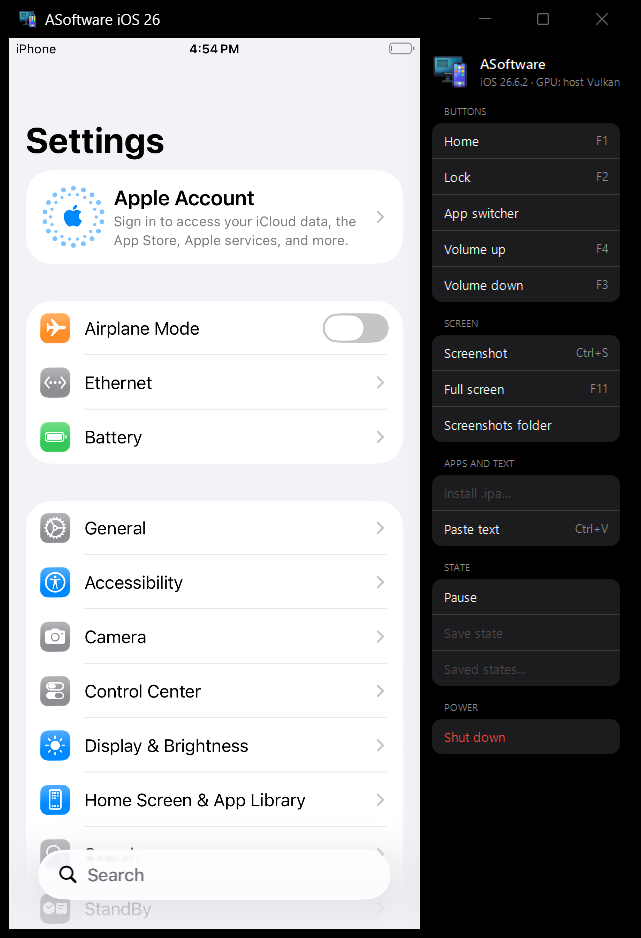
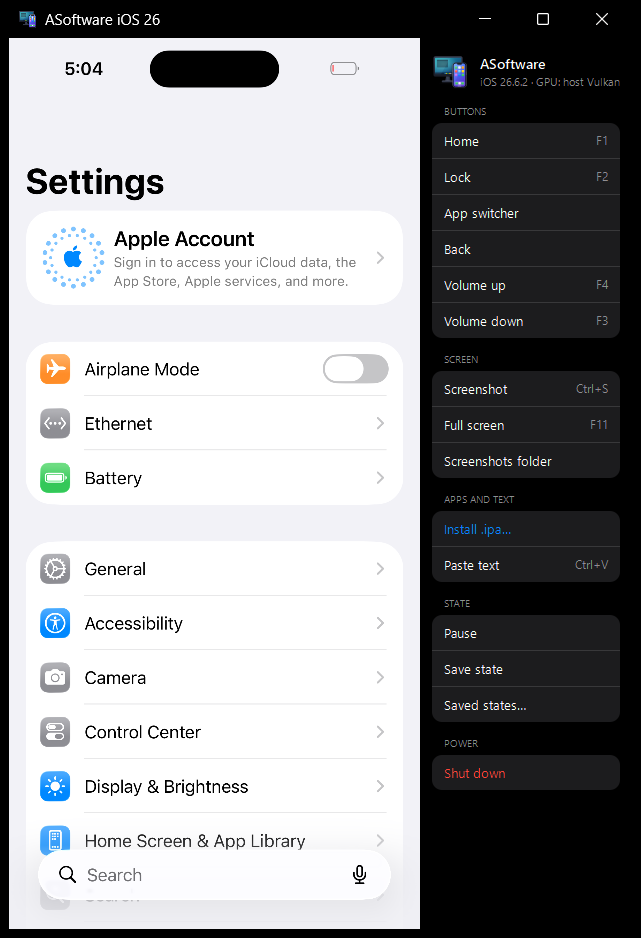
ios26: quick boot in the launcher; new pictures of the window
Closing the window on a disk that keeps its changes saves the machine, and
the next start resumes it in seconds, as the iOS 16 launcher does: its own
state snapshot, dropped by -NoQuickBoot, by [B] in the menu and by an .ipa
install, and when QEMU cannot resume it, which then boots iOS.  Under -Persist
an .ipa now goes into the user overlay itself, with its own trust cache: an
existing overlay never saw the apps overlay made under it.

The README's pictures are all new and of the whole window, the chart in two
panels with its numbers measured again in the GIF's run; gpu-chart.py draws it.

diff --git a/ios26/scripts/gpu-chart.py b/ios26/scripts/gpu-chart.py
@@ -1,0 +1,97 @@
+#!/usr/bin/env python3
+"""The README's chart of the QEMU process's GPU use, from gpu-sample.ps1's rows: its 3D engine on
+each GPU and its dedicated memory, in two panels over one time axis, with a line at each gesture.
+    python gpu-chart.py gpu.csv out.png --main LUID --other LUID --main-name "RTX 4080 Laptop"
+                        --other-name "Intel UHD" [--events events.txt] [--until SECONDS]
+events.txt: a line per gesture, its Unix time first.
+"""
+import argparse
+import csv
+from collections import defaultdict
+
+import matplotlib
+matplotlib.use('Agg')
+import matplotlib.pyplot as plt
+
+SURFACE = '#fcfcfb'
+TEXT = '#0b0b0b'
+MUTED = '#52514e'
+GRID = '#e6e5e0'
+FIRST, SECOND = '#2a78d6', '#eb6834'
+
+
+def main():
+    p = argparse.ArgumentParser()
+    p.add_argument('csv')
+    p.add_argument('out')
+    p.add_argument('--main', required=True)
+    p.add_argument('--other', required=True)
+    p.add_argument('--main-name', default='main GPU')
+    p.add_argument('--other-name', default='other GPU')
+    p.add_argument('--events')
+    p.add_argument('--until', type=float)
+    a = p.parse_args()
+
+    engine, memory = defaultdict(dict), {}
+    t0 = None
+    with open(a.csv) as f:
+        for r in csv.DictReader(f):
+            t = float(r['t'])
+            t0 = t if t0 is None else t0
+            at = t - t0
+            if a.until and at > a.until:
+                continue
+            value = float(r['value'])
+            # Windows' formatted counters now and then read past 100: a glitch
+            if r['kind'] == 'engine' and r['key'] == '3D' and value <= 100:
+                engine[r['luid']][at] = value
+            elif r['kind'] == 'mem' and r['key'] == 'dedicated_mb' and r['luid'] == a.main:
+                memory[at] = value / 1024
+    gestures = []
+    if a.events:
+        with open(a.events) as f:
+            gestures = [float(line.split()[0]) - t0 for line in f if line.strip()]
+    if a.until:
+        gestures = [g for g in gestures if g <= a.until]
+
+    plt.rcParams.update({'font.size': 11, 'text.color': TEXT, 'axes.labelcolor': MUTED,
+                         'xtick.color': MUTED, 'ytick.color': MUTED})
+    fig, (top, bottom) = plt.subplots(2, 1, figsize=(9.4, 5.4), sharex=True, dpi=120,
+                                      height_ratios=[3, 2], facecolor=SURFACE)
+    for ax in (top, bottom):
+        ax.set_facecolor(SURFACE)
+        ax.grid(axis='y', color=GRID, linewidth=1)
+        ax.set_axisbelow(True)
+        ax.tick_params(length=0)
+        for side in ('top', 'right', 'left'):
+            ax.spines[side].set_visible(False)
+        ax.spines['bottom'].set_color(GRID)
+        for g in gestures:
+            ax.axvline(g, color='#c9c8c2', linewidth=0.8, zorder=1)
+
+    other = sorted(engine[a.other].items())
+    main_ = sorted(engine[a.main].items())
+    top.plot(*zip(*other), color=SECOND, linewidth=2, solid_joinstyle='round', zorder=2,
+             label=a.other_name)
+    top.plot(*zip(*main_), color=FIRST, linewidth=2, solid_joinstyle='round', zorder=3,
+             label=a.main_name)
+    top.set_ylim(0, 100)
+    top.set_ylabel('3D engine, %')
+    top.legend(loc='upper left', frameon=False, ncol=2)
+    top.set_title("The QEMU process running iOS 26, as Windows counts its GPU use", loc='left',
+                  fontsize=13, pad=26)
+    if gestures:
+        top.text(0, 1.03, 'Each grey line: a tap, swipe or button', color=MUTED, fontsize=10,
+                 transform=top.transAxes)
+
+    mem = sorted(memory.items())
+    bottom.plot(*zip(*mem), color=FIRST, linewidth=2, solid_joinstyle='round', zorder=3)
+    bottom.set_ylim(0, max(v for _, v in mem) * 1.2)
+    bottom.set_ylabel(f'{a.main_name}\nmemory, GB')
+    bottom.set_xlabel('seconds since QEMU started')
+    fig.tight_layout()
+    fig.savefig(a.out, facecolor=SURFACE)
+
+
+if __name__ == '__main__':
+    main()

diff --git a/ios26/README.md b/ios26/README.md
@@ -6,7 +6,7 @@
 
 <img src="screenshots/ios26-gpu.gif" width="420" alt="iOS 26 in the ASoftware window: Settings, scrolling, General, the home screen">
 
-<sub>Real time, on Windows 11 with an RTX 4080 Laptop: Settings (opened once before), scrolling, General, Home, the home screen's pages.</sub>
+<sub>In real time, the pauses between gestures cut, on Windows 11 with an RTX 4080 Laptop: Settings (opened once before), scrolling, General, Home, the home screen's pages.</sub>
 
 English · [Türkçe](#turkce)
 
@@ -34,21 +34,23 @@ same GPU stack on Linux; this is the Windows host.
 | **Input** | Mouse as the touchscreen (tap, swipe, scroll), the PC keyboard, Home, side button and volume |
 | **Gestures** | A Face ID iPhone's (an iPhone 16 Pro's layout: Dynamic Island, its status bar): swipe up to open and to go home, swipe up and hold for the app switcher, Control Center from the top right, Notification Center from the top left, back from the left edge. A drag from the display's left edge becomes iOS's back gesture (a quick swipe is too fast for the emulated app), and the side bar has Back and App switcher |
 | **Window** | The ASoftware window and side bar of the iOS 16 build: Home, Lock, App switcher, volume, screenshots, full screen, pasted text |
-| **Disk** | As the iOS 16 launcher: a throwaway overlay by default, `-Persist` keeps iOS's changes in a user overlay, `-Keep` writes the base image |
+| **Disk** | As the iOS 16 launcher: a throwaway overlay by default, `-Persist` keeps iOS's changes in a user overlay (the start menu's default), `-Keep` writes the base image |
+| **Quick boot** | On a disk that keeps its changes: closing the window saves iOS as it is, and the next start goes on from there, its screen in about 8 s. `-NoQuickBoot`, or `[B]` in the menu, boots iOS every time |
+| **Saved states** | The side bar's *Save state* and *Saved states…* |
 | **Network** | `-Net`: a virtio-net NIC on QEMU's user-mode network; iOS brings `en0` up with 10.0.2.15 (checked with `ifconfig`; nothing beyond that tested) |
 | **Wallpaper** | iOS 26's own wallpaper (MercuryPoster: a 3D scene iOS's Metal draws on the PC's GPU) on the lock and home screens, the Liquid Glass clock over it; `-Wallpaper collections` for iOS 17's Collections one (build step 3.6) |
-| **Speed** | All CPU work is emulated (QEMU TCG). Measured on an i7-13700HX: lock screen about 100 s after start (160 s before our TCG changes: `notes`), Settings opens in about 4 s, a scroll answers in 0.3 s |
+| **Speed** | All CPU work is emulated (QEMU TCG). Measured on an i7-13700HX: lock screen about 2 minutes after start, Settings opens in about 4 s, a scroll answers in 0.3 s |
 
-<img src="screenshots/lock-screen-wallpaper.png" width="24%" alt="Lock screen with iOS 26's wallpaper"> <img src="screenshots/lock-screen.png" width="24%" alt="Lock screen in the window"> <img src="screenshots/home-screen.png" width="24%" alt="Home screen"> <img src="screenshots/settings.png" width="24%" alt="Settings">
+<img src="screenshots/lock-screen-wallpaper.png" width="24%" alt="Lock screen with iOS 26's wallpaper"> <img src="screenshots/lock-screen.png" width="24%" alt="Lock screen with iOS 17's Collections wallpaper"> <img src="screenshots/home-screen.png" width="24%" alt="Home screen"> <img src="screenshots/settings.png" width="24%" alt="Settings">
 
-Saved states work: the side bar's *Save state* and *Saved states…* (about 3.7 GB each, written to the
-disk iOS runs on, so a throwaway run loses them at exit). A QEMU started on a saved state
-(`-Extra '-loadvm','NAME'`) is at the guest's screen in about 8 s.
+A saved state, and quick boot's, is about 3.7 GB on the disk iOS runs on: leave that much free. A
+throwaway run loses them at exit. After a quick boot iOS's clock goes on from where it was saved, not
+from the time now: the time away is missing until iOS boots again.
 
-Not yet: quick boot from the window (closing it does not save yet), a live `.ipa` install, a clean
-shutdown from the window (closing it quits at once; the default overlay makes that harmless), audio,
-the App Store and Apple ID services. For about 3 minutes after the
-lock screen appears iOS's daemons keep every vCPU busy, so the first taps are slow.
+Not yet: a live `.ipa` install (`.ipa`s install by direct placement at the next start), a clean
+shutdown from the window (closing it saves or quits at once), audio, the App Store and Apple ID
+services. App switcher cards show a blank page, not the app's last screen. For about 3 minutes after
+the lock screen appears iOS's daemons keep every vCPU busy, so the first taps are slow.
 
 ## Is it really the GPU?
 
@@ -59,18 +61,17 @@ GPU columns. Measured on the QEMU process while iOS 26 ran, on a laptop with two
 
 | The QEMU process, from the lock screen on | RTX 4080 Laptop | Intel UHD (the other GPU) |
 | --- | --- | --- |
-| Dedicated GPU memory | **1.5 to 2.0 GB** | none (0.24 GB shared) |
-| 3D engine | **bursts up to 36 %** when iOS draws | flat, 2 to 8 % |
+| Dedicated GPU memory | **1.5 to 2.2 GB** | none (0.24 GB shared) |
+| 3D engine | **bursts up to 80 %** when iOS draws | flat, 2 to 12 % |
 
 <img src="screenshots/gpu-chart.png" width="760" alt="GPU use of the QEMU process over a run: memory and 3D engine on the RTX 4080, the Intel GPU flat">
 
-QEMU's memory on the RTX 4080 climbs as iOS boots and loads its interface. The 3D engine works in
-bursts, when the lock screen comes up, as Settings opens and scrolls, and at each Home and swipe, then
-waits: iOS's CPU work is emulated and keeps four host cores busy, so the CPU, not the GPU, sets the
-pace. On the idle home screen iOS keeps drawing, most likely the Clock icon's live hands. Measured on
-2026-10-27, in the run the GIF above comes from, on Windows 11, i7-13700HX, RTX 4080 Laptop (driver
-610.74), 4 vCPUs, with [`scripts/gpu-sample.ps1`](scripts/gpu-sample.ps1). Two engine samples above
-100 %, a glitch of Windows' formatted counters, are left out.
+QEMU's memory on the RTX 4080 climbs as iOS boots and loads its interface, most of it as the lock
+screen comes up, at about 130 s. The 3D engine works in bursts, when the lock screen comes up, as
+Settings opens and scrolls, and at each Home and swipe, then waits: iOS's CPU work is emulated and
+keeps four host cores busy, so the CPU, not the GPU, sets the pace. Measured on 2026-10-31, in the run
+the GIF above comes from, on Windows 11, i7-13700HX, RTX 4080 Laptop (driver 610.74), 4 vCPUs, with
+[`scripts/gpu-sample.ps1`](scripts/gpu-sample.ps1), drawn by [`scripts/gpu-chart.py`](scripts/gpu-chart.py).
 
 **2. What iOS sends.** reims-vgpu can trace the paravirtual GPU's command stream
 (`REIMS_VGPU_TRACE`). We counted it up to the lock screen:
@@ -78,10 +79,10 @@ pace. On the idle home screen iOS keeps drawing, most likely the Clock icon's li
   every surface on the CPU and the host only shows them.
 - **With the driver:** iOS sent 573 Metal command buffers and drew into 70 render-target surfaces.
 
-The picture differs too. The dock's platter, a translucent material, appears only when iOS has its
-Metal driver:
+The picture differs too. Without its Metal driver (the same disk with the bundle deleted) iOS has no
+wallpaper, no dock platter and blank icons, as those are drawn with Metal:
 
-<img src="screenshots/cpu-vs-gpu.png" width="560" alt="The home screen without and with the guest GPU driver">
+<img src="screenshots/cpu-vs-gpu.png" width="760" alt="The home screen in the window, without and with the guest GPU driver">
 
 **3. The library's log.** At start, reims-vgpu names the device it runs the guest's Metal on, and
 metal2vulkan names the Vulkan driver it translates for:
@@ -259,12 +260,16 @@ Every binary you change or add needs its CDHash in the trust cache: get it with 
    touch: no home gesture, app switcher or edge swipe back). Write that `.03` into the image as
    `apply-apps.sh` writes `.42` and add the CDHash it prints (to `root-collections.tc` too).
 
-Then run `Start-iOS26.ps1 -Work D:\ios26`. The lock screen comes after about 100 s; press Home (F1).
+Then run `Start-iOS26.ps1 -Work D:\ios26`. The lock screen comes after about 2 minutes; press Home (F1).
 
 The disk works as in the iOS 16 launcher: by default iOS writes to a throwaway overlay and the
 image is as built again at the next start; `-Persist` keeps what iOS writes (settings, apps) in
-`root26-user.qcow2`, an overlay on the base image, and `-Persist -Reset` drops that overlay first;
-`-Keep` writes the base image itself. Two launchers on one disk refuse to start. `-Net` adds a
+`root26-user.qcow2`, an overlay on the base image, with the `.ipa`s you install, and `-Persist -Reset`
+drops that overlay first; `-Keep` writes the base image itself. On a disk that keeps its changes
+closing the window saves the machine's state there, as its snapshot `asoft-quick`, and the next start
+resumes it (QEMU deletes the state once the machine runs; one it cannot resume, of another build or
+other options, is dropped and iOS boots). `-NoQuickBoot` boots every time, and an `.ipa` install drops
+the state. Two launchers on one disk refuse to start. `-Net` adds a
 virtio-net NIC on QEMU's user-mode network (see *What works*).
 
 ### Start menu and setup (Start-iOS26.cmd, Install-iOS26.ps1)
@@ -288,9 +293,10 @@ hand where a step says so.
 
 The published launcher needs a recent build: qemu-sptm `ios26` **4eee4e5** or later (older QEMU
 rejects the `usb-kbd` `idle-reports` option and will not boot) and reims-vgpu `windows`
-**65e09172** or later (the screen-off cover needs it). Saved states need qemu-sptm **52f3606** and
-reims-vgpu **c81dfdcf** or later, built together (the older QEMU keeps the buttons off). Rebuild QEMU
-(step 1) if yours is older.
+**65e09172** or later (the screen-off cover needs it). Saved states and quick boot need qemu-sptm
+**52f3606**, reims-vgpu **e919fd74** and metal2vulkan `windows` **50086fc0** or later, built together
+(an older QEMU keeps the buttons off, and an older metal2vulkan ends the emulator some seconds after
+Home and a page swipe). Rebuild QEMU (step 1) if yours is older.
 
 `.ipa` installs: the side bar's *Install .ipa…* and the `ipa` folder are wired in the launcher
 (`ipa-server.py`, `ASOFT_IPA_DIR`, and `-Net`), and the `asoftinstalld` daemon (built on macOS, as
@@ -361,7 +367,7 @@ NVIDIA RTX 4080'de çiziliyor. Aynı misafiri aynı GPU yığınıyla Linux'ta
 - **Giriş:** fare dokunmatik ekran gibi çalışıyor (dokunma, kaydırma), PC klavyesi, Home, yan tuş ve
   ses tuşları.
 - **Pencere:** iOS 16 sürümündeki ASoftware penceresi ve yan çubuğu.
-- **Hız:** i7-13700HX'te kilit ekranı açılıştan yaklaşık 100 sn sonra geliyor, Ayarlar yaklaşık 4 sn'de
+- **Hız:** i7-13700HX'te kilit ekranı açılıştan yaklaşık 2 dk sonra geliyor, Ayarlar yaklaşık 4 sn'de
   açılıyor, kaydırma 0,3 sn'de tepki veriyor.
 - **Hareketler:** Face ID'li iPhone düzeni (iPhone 16 Pro: Dynamic Island, onun status bar'ı): yukarı
   kaydırıp açma ve eve dönme, kaydırıp bekleyince uygulama değiştirici, sağ üstten Denetim Merkezi, sol
@@ -372,17 +378,22 @@ NVIDIA RTX 4080'de çiziliyor. Aynı misafiri aynı GPU yığınıyla Linux'ta
   çizdiği 3B sahne), üstünde Liquid Glass saat; `-Wallpaper collections` iOS 17 Collections duvar kağıdı
   (derleme adımı 3.6, misafir CPU'suna daha hafif).
 
-**Henüz yok:** hızlı açılış ve kayıtlı durumlar, `.ipa` kurma, pencereden
-temiz kapanış (kapatmak hemen çıkar; varsayılan geçici overlay bunu zararsız kılar), ses, App Store ve
-Apple ID hizmetleri.
+**Kayıtlı durumlar ve hızlı açılış:** yan çubuğun *Save state* ve *Saved states…* düğmeleri çalışıyor.
+Değişikliklerini tutan bir diskte pencereyi kapatmak iOS'u olduğu gibi kaydeder, sonraki açılış oradan
+devam eder, ekran yaklaşık 8 sn'de gelir (`-NoQuickBoot` ya da menüde `[B]` her seferinde baştan açar).
+Her kayıt, iOS'un çalıştığı diskte yaklaşık 3,7 GB tutar; geçici koşuda çıkışta kaybolur.
+
+**Henüz yok:** canlı `.ipa` kurma (`.ipa` bir sonraki açılışta doğrudan yerleştirilir), pencereden temiz
+kapanış, ses, App Store ve Apple ID hizmetleri. Uygulama değiştirici kartları uygulamanın son ekranı
+yerine boş sayfa gösteriyor.
 
 **Başlatıcı:** disk iOS 16 başlatıcısındaki gibi; varsayılan geçici overlay, `-Persist` iOS'un yazdıklarını
-kullanıcı overlay'inde tutar, `-Keep` taban görüntüye yazar. `-Net` virtio-net verir (en0, 10.0.2.15).
+ve kurulan `.ipa`'ları kullanıcı overlay'inde tutar (başlat menüsünün varsayılanı), `-Keep` taban görüntüye yazar. `-Net` virtio-net verir (en0, 10.0.2.15).
 16K softmmu sayfası varsayılan (`-Page4K` eskisi): kilit ekranı 135 → ~100 sn.
 
 **Gerçekten ekran kartı mı?** Yukarıdaki *Is it really the GPU?* bölümünde Windows'un kendi sayaçlarıyla
-ölçüm var: QEMU işlemi RTX 4080'de 1,5-2,0 GB bellek tutuyor, 3D motoru iOS her çizdiğinde %36'ya kadar
-çıkıyor; diğer GPU (Intel) ne yapılırsa yapılsın %2-8'de düz kalıyor.
+ölçüm var: QEMU işlemi RTX 4080'de 1,5-2,2 GB bellek tutuyor, 3D motoru iOS her çizdiğinde %80'e kadar
+çıkıyor; diğer GPU (Intel) ne yapılırsa yapılsın %2-12'de düz kalıyor.
 
 **Derleme:** adımlar ve komutlar yukarıdaki *Build* bölümünde (komutlar dilden bağımsız). Misafirin GPU
 sürücüsü (`AppleParavirtGPUMetalIOGPUFamily.bundle`) Apple'ın donanım yazılımı içeriğidir, bu repoda

diff --git a/README.md b/README.md
@@ -18,7 +18,7 @@ iOS 16, ready to install · **new:** iOS 26, drawn by your PC's GPU
 
 <img src="ios26/screenshots/ios26-gpu.gif" width="420" alt="iOS 26 in the ASoftware window: Settings, scrolling, General, the home screen">
 
-<sub>iOS 26.6.2 on Windows 11, in real time: iOS's own Metal draws the interface, on an NVIDIA RTX 4080 through Vulkan.</sub>
+<sub>iOS 26.6.2 in the ASoftware window on Windows 11, in real time with the pauses between gestures cut: iOS's own Metal draws the interface, on an NVIDIA RTX 4080 through Vulkan.</sub>
 
 English · [Türkçe](#turkce)
 
@@ -32,7 +32,7 @@ English · [Türkçe](#turkce)
 | **Graphics** | The CPU | **The PC's GPU**: iOS's own Metal, through Vulkan |
 | **iOS** | 16.7.16 of the iPhone X | 26.6.2 of the iPhone 16, on the kernel of Apple's research VM |
 | **Apps** | Safari with real web pages, `.ipa` installs | The system apps, Settings |
-| **Quick boot** | Yes: iOS goes on in seconds | Not yet |
+| **Quick boot** | Yes: iOS goes on in seconds | Yes: iOS goes on in seconds |
 | **Start** | [Install](#install) | [`ios26/`](ios26/README.md) |
 
 Is it really the GPU? See [the measurements](ios26/README.md#is-it-really-the-gpu).
@@ -176,7 +176,7 @@ QEMU on Windows (`qemu/build-windows.sh` or `qemu-win.yml`), the helper VM on Li
 | **Grafik** | İşlemci | **Bilgisayarın ekran kartı**: iOS'un kendi Metal'i, Vulkan üzerinden |
 | **iOS** | iPhone X'in 16.7.16'sı | iPhone 16'nın 26.6.2'si, Apple'ın araştırma VM'inin çekirdeğinde |
 | **Uygulamalar** | Gerçek web sayfalarıyla Safari, `.ipa` kurma | Sistem uygulamaları, Ayarlar |
-| **Hızlı açılış** | Var: iOS saniyeler içinde kaldığı yerden devam eder | Henüz yok |
+| **Hızlı açılış** | Var: iOS saniyeler içinde kaldığı yerden devam eder | Var: iOS saniyeler içinde kaldığı yerden devam eder |
 | **Başlangıç** | [Kurulum](#kurulum) | [`ios26/`](ios26/README.md#turkce) |
 
 Gerçekten ekran kartı mı? [Ölçümler](ios26/README.md#is-it-really-the-gpu). Aşağısı iOS 16 hakkında.
